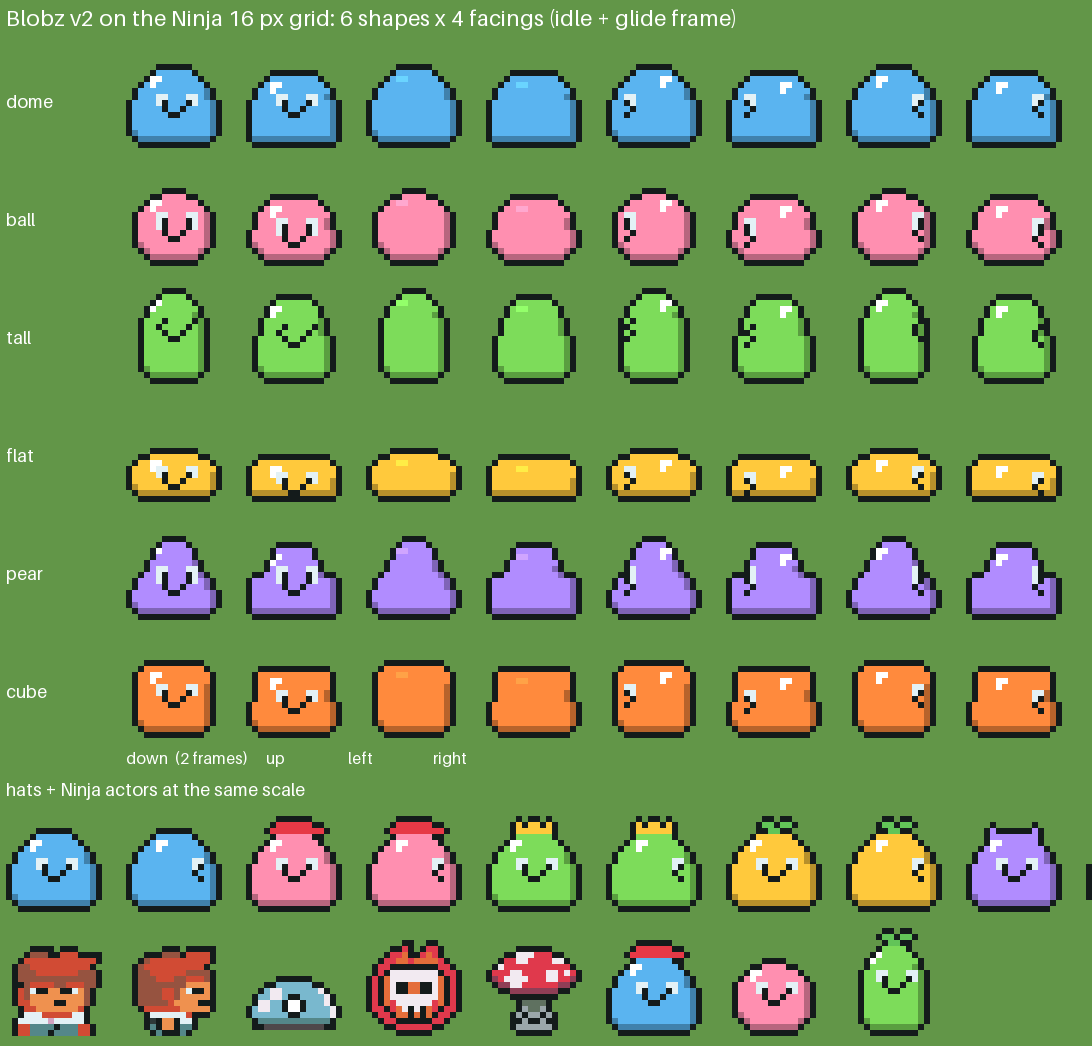
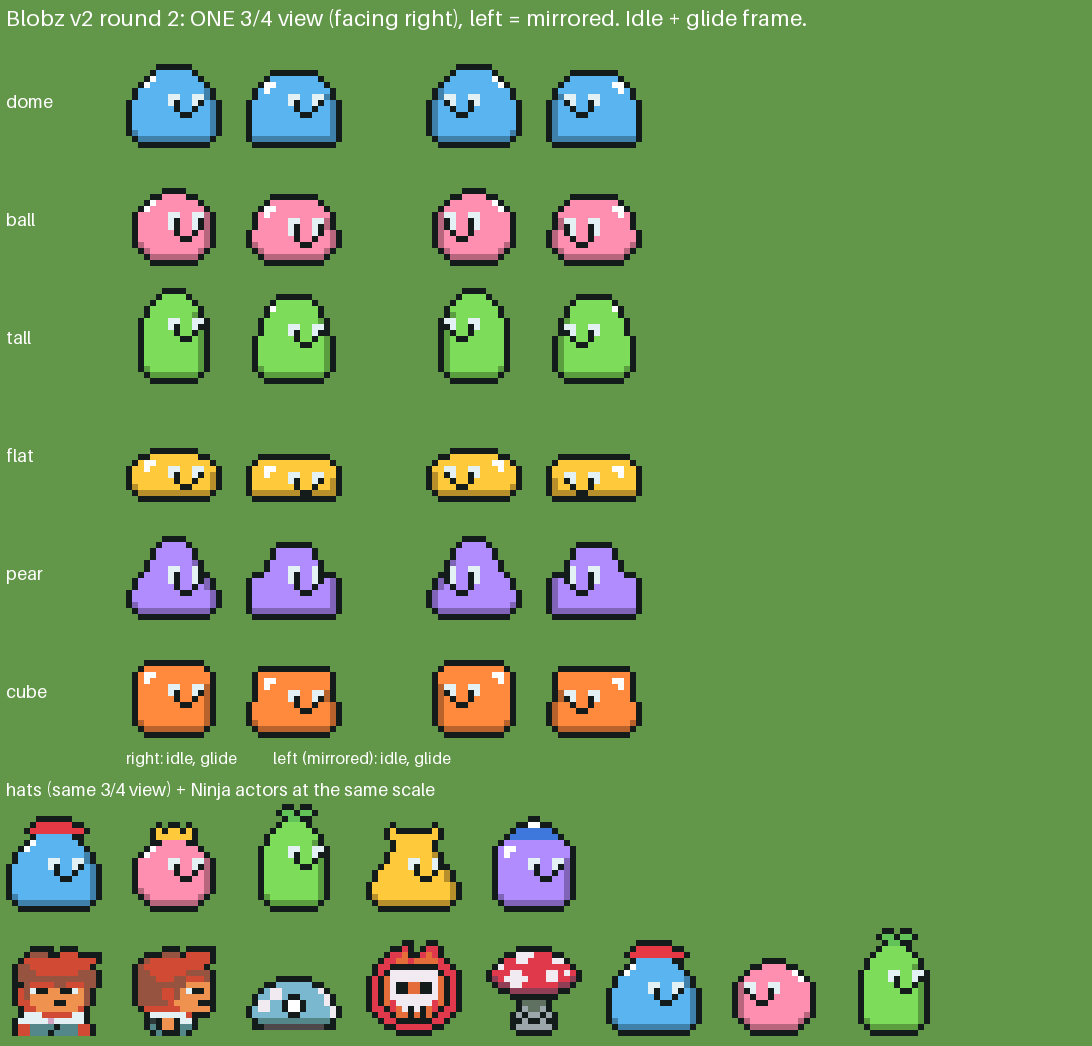
docs(art): blobz v2 mock round 2, single 3/4 view mirrored
Claude-Session: https://claude.ai/code/session_019PjhQv7Xfjv9fRCZgvquZ1

diff --git a/blobz/scripts/blobz_v2_mock.py b/blobz/scripts/blobz_v2_mock.py
@@ -76,7 +76,9 @@ def eyes(face, top, bottom, kind):
     px = {}
     if face == 'up':
         return px
-    if face == 'down':
+    if face == 'q':
+        xs = [7, 11]
+    elif face == 'down':
         xs = [5, 10]
     elif face == 'right':
         xs = [11]
@@ -90,12 +92,17 @@ def eyes(face, top, bottom, kind):
             for dy in range(3 if kind == 'big' else 2):
                 px[(ex, ey + dy)] = EYE
                 px[(ex + 1, ey + dy)] = EYE
-            pdx = 1 if face == 'right' else 0 if face == 'left' else (1 if ex < 8 else 0)
+            pdx = 1 if face in ('right', 'q') else 0 if face == 'left' else (1 if ex < 8 else 0)
             px[(ex + pdx, ey + (2 if kind == 'big' else 1))] = INK
             if kind == 'big':
                 px[(ex + pdx, ey + 1)] = INK
     my = ey + (3 if kind == 'big' else 2) + 1
-    if face == 'down':
+    if face == 'q':
+        for x in (9, 10):
+            px[(x, my)] = INK
+        px[(8, my - 1)] = INK
+        px[(11, my - 1)] = INK
+    elif face == 'down':
         for x in (7, 8):
             px[(x, my)] = INK
         px[(6, my - 1)] = INK
@@ -134,7 +141,7 @@ def blob(shape, colour, face='down', frame=0, eye='normal', hat='none'):
         im.putpixel((x, y), c)
     paint(im, outline(m), INK)
     # highlight like the Ninja slime: a 2 px white glint top-left (top-right when facing right)
-    hx = {'right': 5, 'left': 9}.get(face, 4)  # glint on the back side when seen from the side
+    hx = {'right': 5, 'left': 9, 'q': 3}.get(face, 4)  # glint on the back side when seen from the side
     if face != 'up':
         paint(im, {(hx, top + 1), (hx + 1, top + 1), (hx, top + 2)} & m, WHITE)
     else:
@@ -162,45 +169,41 @@ def ninja(path, col, row, cols=4):
 
 
 def main(scale=6):
-    faces = ['down', 'up', 'left', 'right']
     shapes = list(SHAPES)
     pad = 6
     cell = (FW + 4) * scale
-    w = (1 + 4 * 2) * cell + 2 * pad
+    w = 9 * cell + 2 * pad
     out = Image.new('RGBA', (w, 1400), (98, 150, 72, 255))
     d = ImageDraw.Draw(out)
-    d.text((pad, 4), 'Blobz v2 on the Ninja 16 px grid: 6 shapes x 4 facings (idle + glide frame)', fill=(255, 255, 255, 255), font_size=22)
+    d.text((pad, 4), 'Blobz v2 round 2: ONE 3/4 view (facing right), left = mirrored. Idle + glide frame.', fill=(255, 255, 255, 255), font_size=22)
     y = 40
-    eyes_ = ['normal', 'big', 'happy', 'normal', 'big', 'normal']
+    eyes_ = ['normal', 'big', 'normal', 'normal', 'big', 'normal']
     for r, sh in enumerate(shapes):
         d.text((pad, y + cell // 2 - 10), sh, fill=(255, 255, 255, 255), font_size=18)
-        for i, f in enumerate(faces):
-            for k, fr in enumerate((0, 1)):
-                im = blob(sh, COLOURS[r], f, fr, eyes_[r])
-                out.alpha_composite(im.resize((FW * scale, FH * scale), Image.NEAREST), (pad + cell + (i * 2 + k) * cell, y))
+        frames = [blob(sh, COLOURS[r], 'q', fr, eyes_[r]) for fr in (0, 1)]
+        for k, im in enumerate(frames + [f.transpose(Image.FLIP_LEFT_RIGHT) for f in frames]):
+            out.alpha_composite(im.resize((FW * scale, FH * scale), Image.NEAREST), (pad + cell + k * cell + (cell // 2 if k >= 2 else 0), y))
         y += FH * scale + 10
-    d.text((pad + cell, y), 'down  (2 frames)      up                     left                    right', fill=(255, 255, 255, 255), font_size=16)
+    d.text((pad + cell, y), 'right: idle, glide            left (mirrored): idle, glide', fill=(255, 255, 255, 255), font_size=16)
     y += 30
-    d.text((pad, y), 'hats + Ninja actors at the same scale', fill=(255, 255, 255, 255), font_size=18)
+    d.text((pad, y), 'hats (same 3/4 view) + Ninja actors at the same scale', fill=(255, 255, 255, 255), font_size=18)
     y += 26
     x = pad
-    for k, h in enumerate(HATS):
-        for f in ('down', 'right'):
-            im = blob('dome', COLOURS[k % 6], f, 0, 'normal', h)
-            out.alpha_composite(im.resize((FW * scale, FH * scale), Image.NEAREST), (x, y))
-            x += cell
+    for k, h in enumerate(h for h in HATS if h != 'none'):
+        im = blob(['dome', 'ball', 'tall', 'pear', 'cube'][k], COLOURS[k], 'q', 0, 'normal', h)
+        out.alpha_composite(im.resize((FW * scale, FH * scale), Image.NEAREST), (x, y))
+        x += cell
     y += FH * scale + 16
     x = pad
     for path, col, row in (('Actor/Character/Boy/SpriteSheet.png', 0, 0), ('Actor/Character/Boy/SpriteSheet.png', 3, 0),
                            ('Actor/Monster/Slime/Slime.png', 0, 0), ('Actor/Monster/Skull/SpriteSheet.png', 0, 0),
                            ('Actor/Monster/Mushroom/mushroom.png', 0, 0)):
-        p = os.path.join(NA, path)
-        if not os.path.exists(p):
-            continue
         out.alpha_composite(ninja(path, col, row).resize((16 * scale, 16 * scale), Image.NEAREST), (x, y + 2 * scale))
         x += cell
     for k, sh in enumerate(('dome', 'ball', 'tall')):
-        im = blob(sh, COLOURS[k], 'down', 0, 'normal', ['cap', 'none', 'sprout'][k])
+        im = blob(sh, COLOURS[k], 'q', 0, 'normal', ['cap', 'none', 'sprout'][k])
+        if k == 1:
+            im = im.transpose(Image.FLIP_LEFT_RIGHT)
         out.alpha_composite(im.resize((FW * scale, FH * scale), Image.NEAREST), (x, y))
         x += cell
     y += FH * scale + 10
